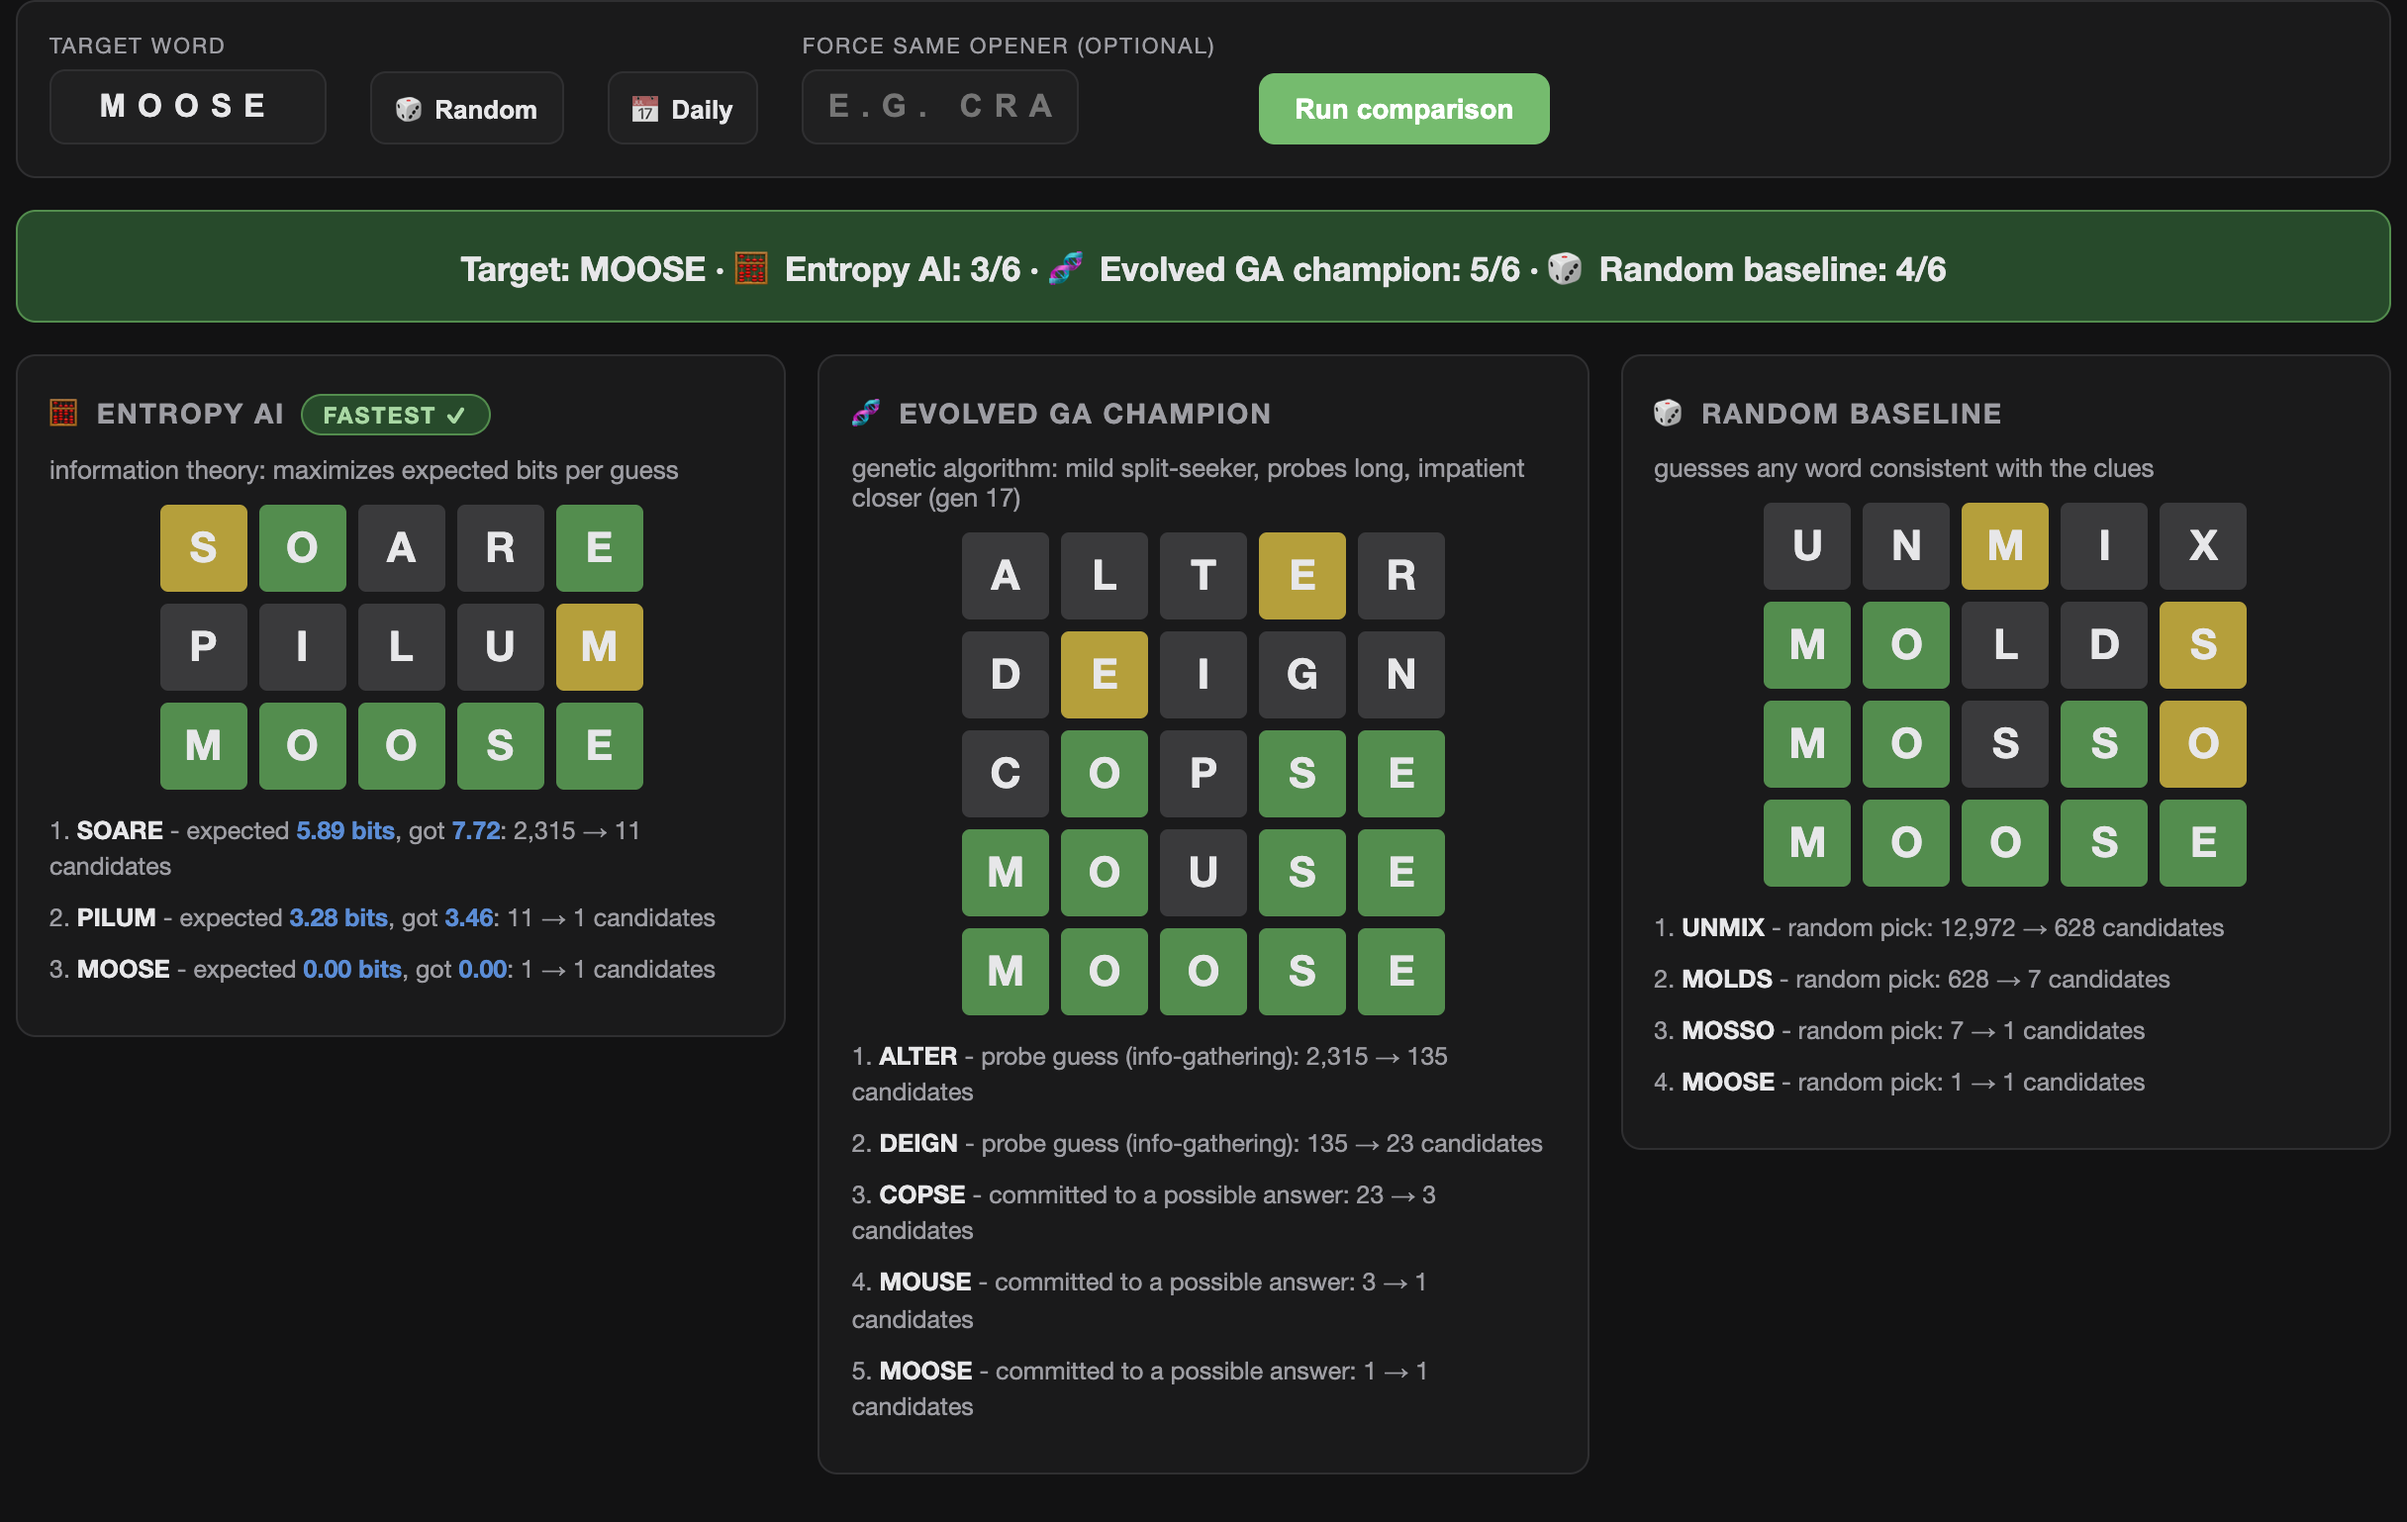
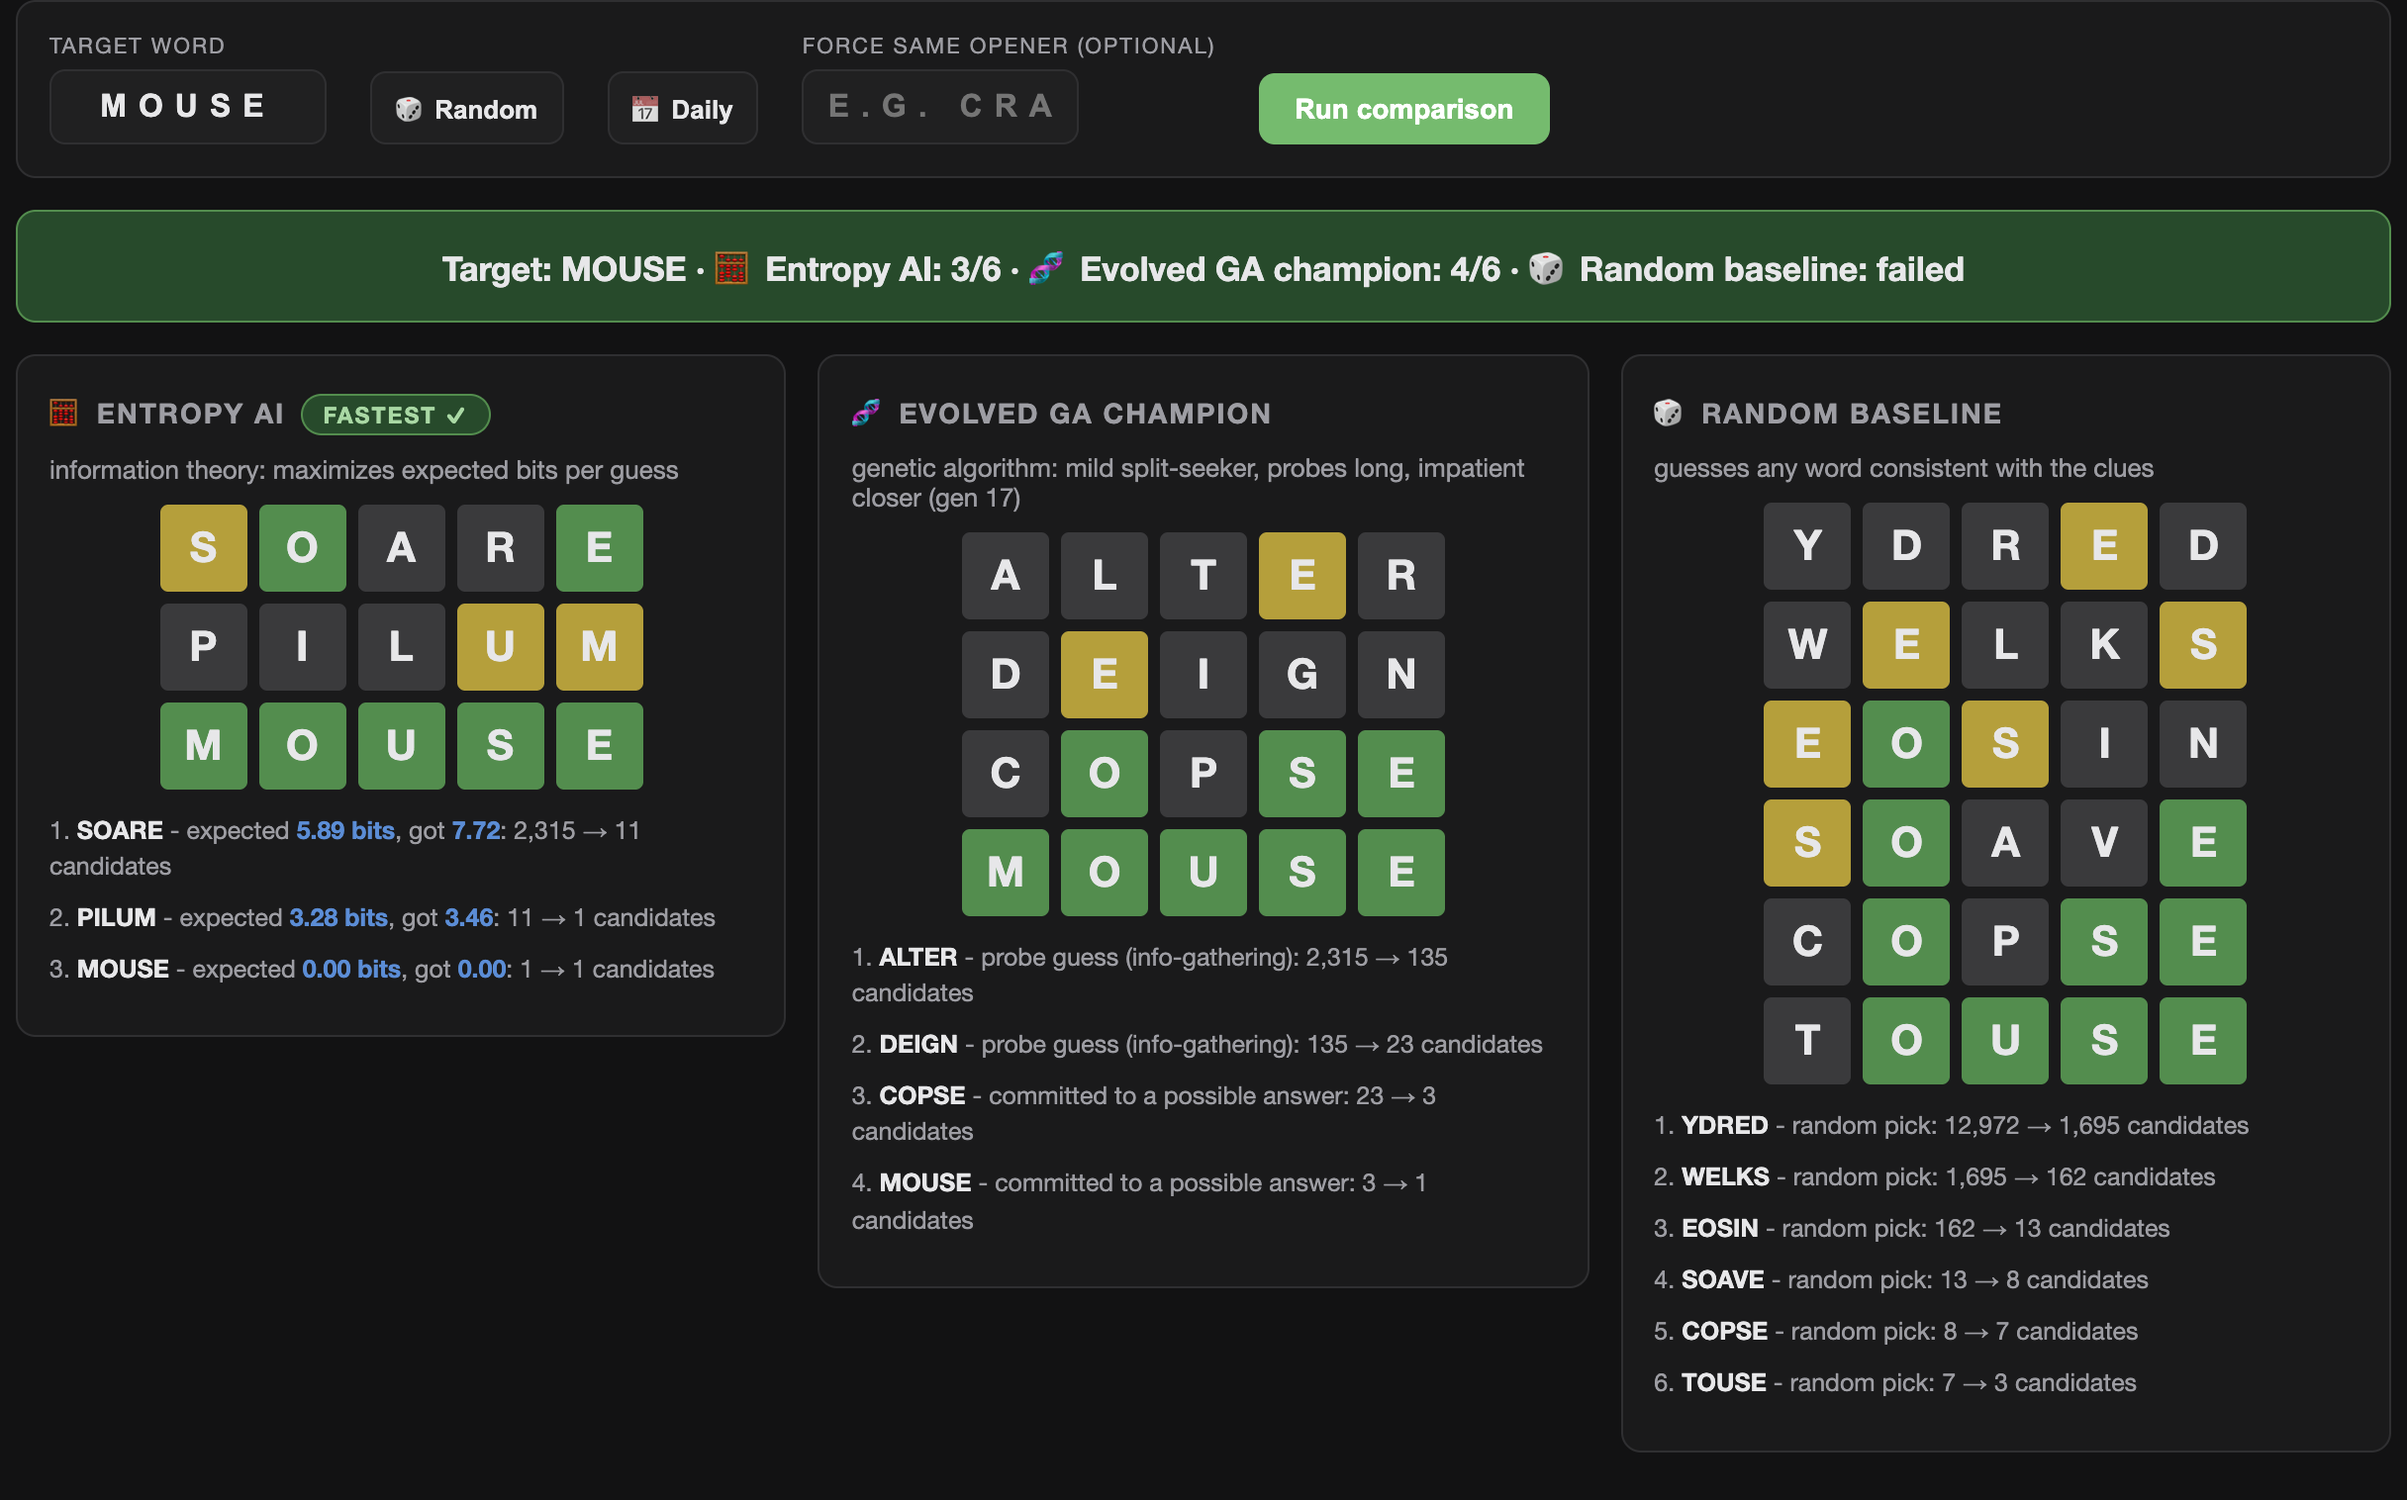
fix evolution algorithm bug dropping cached guess history

diff --git a/core/genetic.js b/core/genetic.js
@@ -144,6 +144,8 @@ export class AgentSolver {
     this.candidates = allCandidateIndices();
     this.turn = 0;
     this.firstGuess = firstGuess;
+    this.history = [];
+    this.played = new Set();
     this.offList = false;
     this.offListWords = null;
   }
@@ -183,6 +185,7 @@ export class AgentSolver {
     let bestWord = candWords[0] || 'crane';
     let bestScore = -Infinity;
     for (const w of pool) {
+      if (this.played.has(w)) continue; // a repeated guess yields zero information
       const s = scoreWord(w, g, stats, candSet.has(w));
       if (s > bestScore) { bestScore = s; bestWord = w; }
     }
@@ -191,6 +194,7 @@ export class AgentSolver {
       const cap = Math.min(candWords.length, 60);
       for (let i = 0; i < cap; i++) {
         const w = candWords[i];
+        if (this.played.has(w)) continue;
         const s = scoreWord(w, g, stats, true);
         if (s > bestScore) { bestScore = s; bestWord = w; }
       }
@@ -200,14 +204,20 @@ export class AgentSolver {
 
   observe(guess, pattern) {
     this.turn++;
+    this.history.push({ guess, pattern });
+    this.played.add(guess);
     if (this.offList) {
       this.offListWords = filterWords(this.offListWords, guess, pattern);
       return;
     }
     this.candidates = filterCandidates(this.candidates, guess, pattern);
     if (this.candidates.length === 0) {
+      // The target isn't an official answer (manual/custom puzzles).
+      // Fall back to the full guessable dictionary re-filtered by history.
       this.offList = true;
-      this.offListWords = filterWords(ALL_WORDS, guess, pattern);
+      let words = ALL_WORDS;
+      for (const h of this.history) words = filterWords(words, h.guess, h.pattern);
+      this.offListWords = words;
     }
   }
 }
@@ -218,6 +228,7 @@ export function playGame(genome, answer, { firstGuess = null, maxTurns = 6, with
   const trace = withTrace ? [] : null;
   for (let t = 0; t < maxTurns; t++) {
     const before = solver.candidateCount;
+    const wasOffList = solver.offList;
     const move = solver.nextGuess();
     const pattern = computeFeedback(move.word, answer);
     solver.observe(move.word, pattern);
@@ -228,6 +239,7 @@ export function playGame(genome, answer, { firstGuess = null, maxTurns = 6, with
         committed: move.committed,
         candidatesBefore: before,
         candidatesAfter: solver.candidateCount,
+        widened: !wasOffList && solver.offList,
       });
     }
     if (pattern === ALL_GREEN) return { solved: true, turns: t + 1, trace };

diff --git a/js/board.js b/js/board.js
@@ -43,10 +43,11 @@ export function createBoard(container, { rows = 6, tileClickable = false } = {})
           t.textContent = hideLetters ? '•' : word[c].toUpperCase();
           t.className = `tile filled ${CLS[tv[c]]}`;
         };
+        clearTimeout(t._flipTimer); // a newer paint must not be undone by an old flip
         if (animate) {
           t.classList.add('flip');
           t.style.animationDelay = `${c * 90}ms`;
-          setTimeout(apply, c * 90 + 250);
+          t._flipTimer = setTimeout(apply, c * 90 + 250);
         } else {
           apply();
         }
@@ -56,6 +57,7 @@ export function createBoard(container, { rows = 6, tileClickable = false } = {})
     paintRow(r, word, tileValues, { clickable = false, onTileClick = null } = {}) {
       for (let c = 0; c < 5; c++) {
         const t = tiles[r][c];
+        clearTimeout(t._flipTimer);
         t.textContent = word[c] ? word[c].toUpperCase() : '';
         t.className = `tile filled ${CLS[tileValues[c]]}` + (clickable ? ' clickable' : '');
         t.onclick = clickable && onTileClick ? () => onTileClick(c) : null;
@@ -72,6 +74,7 @@ export function createBoard(container, { rows = 6, tileClickable = false } = {})
     clearRow(r) {
       for (let c = 0; c < 5; c++) {
         const t = tiles[r][c];
+        clearTimeout(t._flipTimer);
         t.textContent = '';
         t.className = 'tile';
         t.onclick = null;

diff --git a/js/play.js b/js/play.js
@@ -103,6 +103,8 @@ async function aiTakeTurn(ai, forcedGuess = null) {
   move.candidatesAfter = analysis.candidateCount;
   ai.board.setRow(ai.row, move.word, pattern, { hideLetters: state.hideAi });
   ai.explainEl.innerHTML = `<b>Turn ${ai.row + 1}:</b> ` + explainFor(ai, move, pattern);
+  ai.lastMove = move;
+  ai.lastPattern = pattern;
   ai.row++;
   if (pattern === ALL_GREEN) {
     ai.done = true;
@@ -126,6 +128,12 @@ async function finishGame(youTurns) {
     while (!ai.done) await aiTakeTurn(ai);
   }
   revealAiLetters();
+  // The boards just got unmasked - unmask the last explanation lines too.
+  for (const ai of state.ais) {
+    if (ai.lastMove) {
+      ai.explainEl.innerHTML = `<b>Turn ${ai.row}:</b> ` + explainFor(ai, ai.lastMove, ai.lastPattern);
+    }
+  }
 
   const results = [`You: ${youTurns ? youTurns + '/6' : 'X/6'}`];
   for (const ai of state.ais) {

diff --git a/core/entropy.js b/core/entropy.js
@@ -163,6 +163,7 @@ export function solveWord(answer, { openers = null, firstGuess = null, maxTurns 
       move = solver.best();
     }
     const before = solver.candidateCount;
+    const wasOffList = solver.offList;
     const pattern = computeFeedback(move.word, answer);
     solver.observe(move.word, pattern);
     trace.push({
@@ -171,6 +172,7 @@ export function solveWord(answer, { openers = null, firstGuess = null, maxTurns 
       entropy: move.entropy,
       candidatesBefore: before,
       candidatesAfter: solver.candidateCount,
+      widened: !wasOffList && solver.offList,
     });
     if (pattern === ALL_GREEN) break;
   }

diff --git a/js/compare.js b/js/compare.js
@@ -93,7 +93,8 @@ async function runComparison() {
       setTimeout(() => board.setRow(row, t.guess, t.pattern), row * 280);
     });
     card.querySelector('.cmp-notes').innerHTML = r.trace
-      .map((t, k) => `<div class="turn-note">${k + 1}. ${s.note(t)}</div>`)
+      .map((t, k) => `<div class="turn-note">${k + 1}. ${s.note(t)}${t.widened
+        ? ' <em>(no official answer fits - widened the search to the full 12,972-word dictionary)</em>' : ''}</div>`)
       .join('');
   });
 
